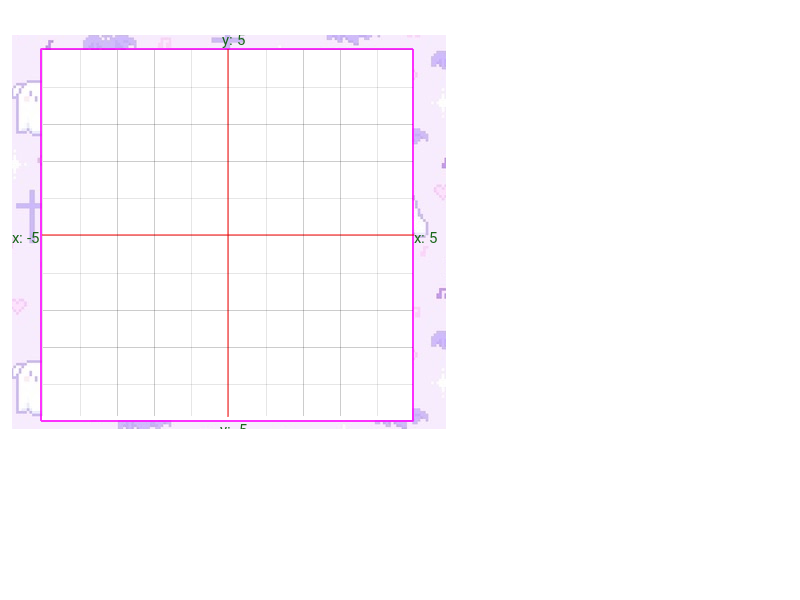
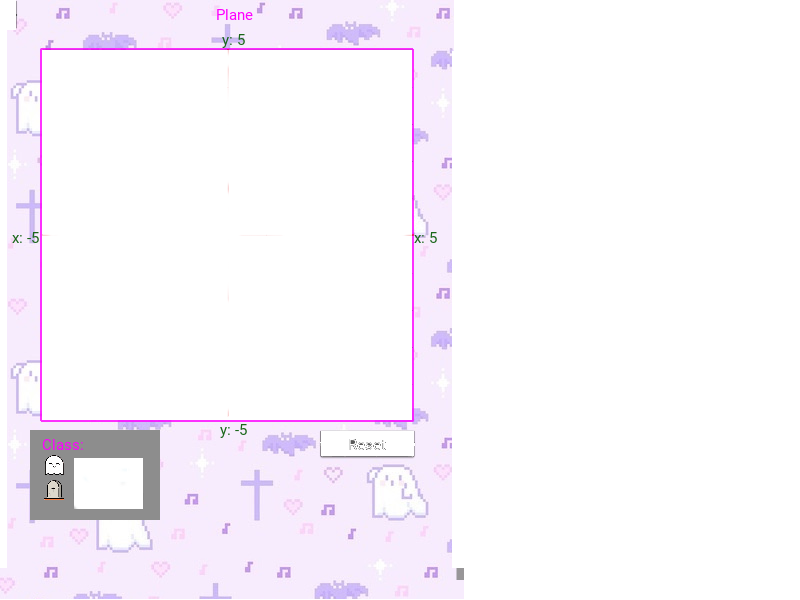
Cambios menores y trampa

diff --git a/Pretty_un/mainMenu.py b/Pretty_un/mainMenu.py
@@ -46,9 +46,9 @@ class mainMenu(FloatLayout):
 
     #Limpia el plano y la variable de Entry_x y Wish_y
     def reset(self):
+
         with self.canvas:
-            Color(1,1,1,1, mode ='rbg')
-            Rectangle(pos = (0,0), size=(800,600), source= "Img/b2.png")
+            Color(1, 1, 1, 1, mode='rbg')
             Rectangle(pos =(42,550-370), size =(370,370), source= "Img/back2.jpg")
             self.set_lines()
         self.Entry_x.clear()
@@ -126,6 +126,9 @@ class mainMenu(FloatLayout):
                 xi = (b-yi) / (-m)
             if xi < 0 and yi < 0:
                 yi += b
+                if yi<-5:
+                    print("yep", yi)
+            print("xi ",xi," yi ",yi)
             xf = 5
             yf = m*xf+b
             if yf > 5:
@@ -136,6 +139,8 @@ class mainMenu(FloatLayout):
                 xf = (b-yf) / (-m)
             if xf < 0 and yf < 0:
                 yf += b
+                print ("yep2")
+            print("xf ", xf, " yf ", yf)
             OldRangex = (5 - (-5))
             NewRangex = (412 - (412 - 370))
             NewValuexi = round((((xi - (-5)) * NewRangex) / OldRangex) + (412 - 370), 1)
@@ -171,16 +176,19 @@ class mainMenu(FloatLayout):
                     i += 1
             else:
                 popup = Popup(title='¡Error!',
-                              content=Label(text='Perceptron Sin Entrenar.'),
+                              content=Label(text='Untrained perceptron.'),
                               size_hint=(None, None), size=(200, 100))
                 popup.open()
         else:
             popup = Popup(title='¡Error!',
-                          content=Label(text='Perceptron Sin Entrenar.'),
+                          content=Label(text='Untrained perceptron.'),
                           size_hint=(None, None), size=(200, 100))
             popup.open()
     #(La funcion que dibuja las lineas del plano)
     def set_lines(self):
+        with self.canvas.after:
+            Color(1,1,1,1, mode ='rbg')
+            Rectangle(pos = (0,0), size=(800,600), source= "Img/b2.png")
         with self.canvas:
             cont=0
             for x in range(10):
@@ -218,7 +226,7 @@ class mainMenu(FloatLayout):
         self.anima = True
         self.vuelta = 0
 
-    def get_data(self, lrn, mx, es):
+    def get_data(self, lrn, mx, es, ep):
         #limpiar lineas si hay
         self.soft_reset()
         if(len(self.Entry_x)>0):
@@ -244,6 +252,13 @@ class mainMenu(FloatLayout):
                 es.text = "Non Linear"
             else:
                 es.text = "Trained!"
+                ep.text = "Number of Epochs: "+str(self.perceptron.epochs)
+        else:
+            popup = Popup(title='¡Error!',
+                          content=Label(text='You need at least one entry to train '),
+                          size_hint=(None, None), size=(300, 100))
+            popup.open()
+
 
 class PerceptronApp(App):
     def build(self):
